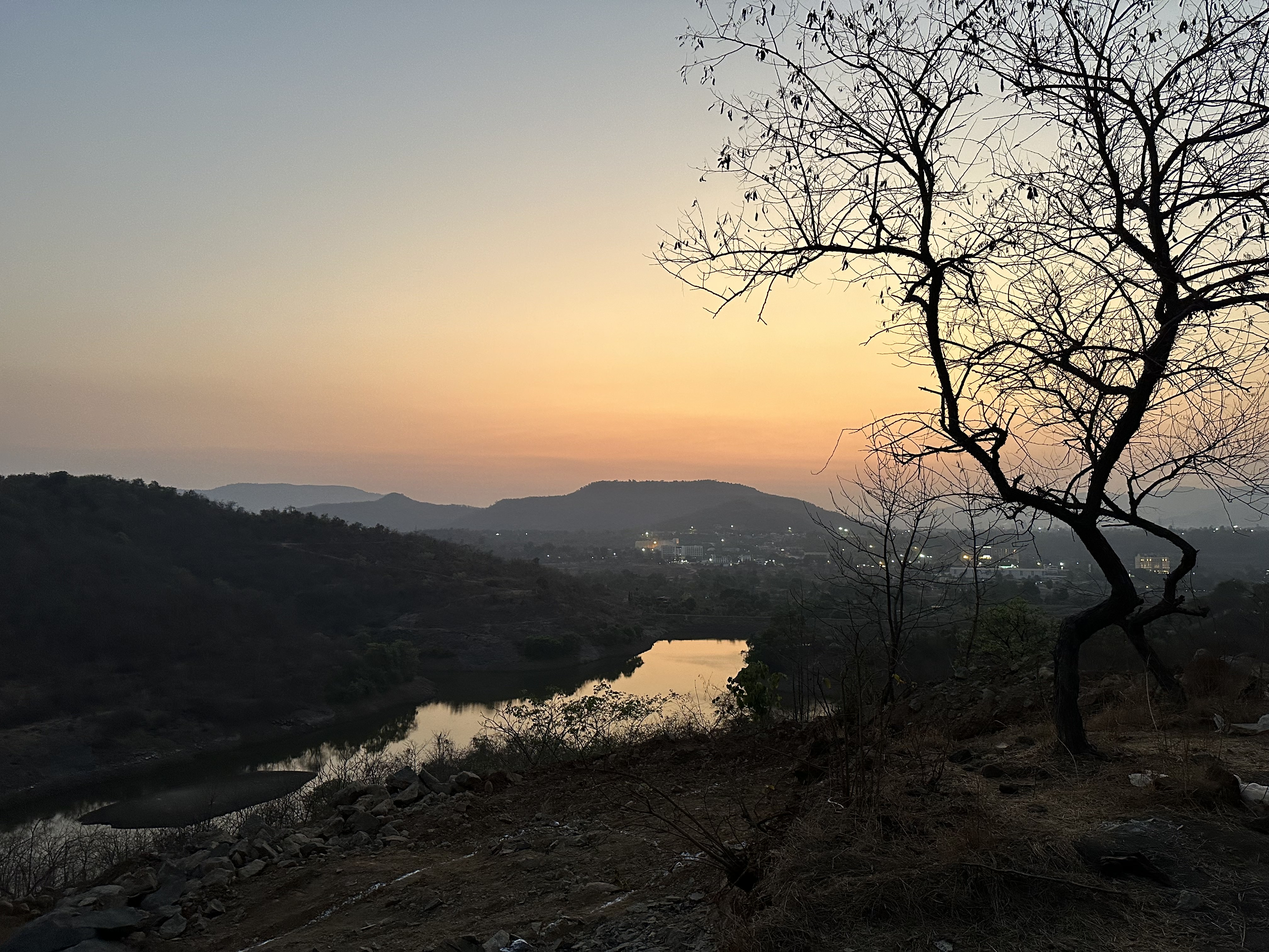
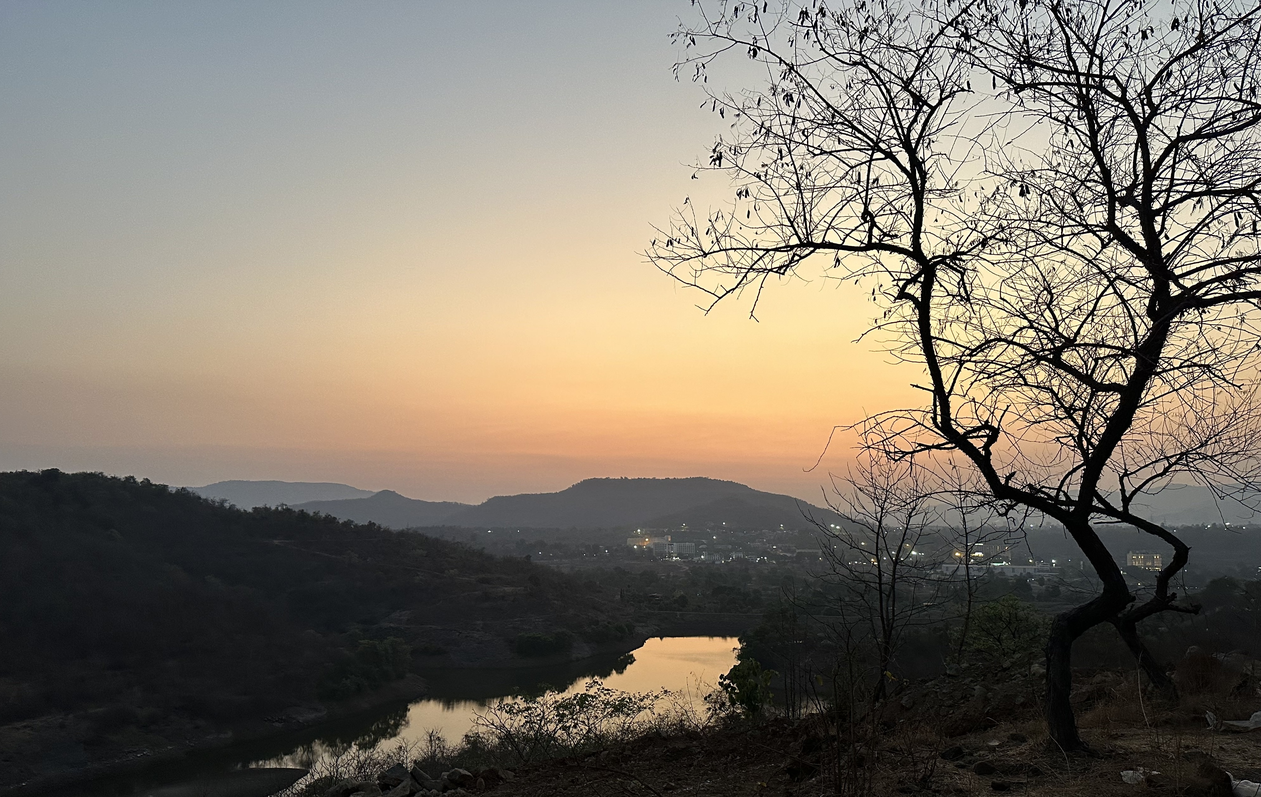
Complete web page
The web page is completed using html and css only.

Some improvements could be made to section 2
(images from the gallery) as they don't scale
together which would make it nicer.

Next step would be to add more web pages for
different regions of the site and hence make all
links interactive.

diff --git a/index.html b/index.html
@@ -3,61 +3,65 @@
 <head>
     <meta charset="UTF-8">
     <meta name="viewport" content="width=device-width, initial-scale=1.0">
-    <title>Webpage Template</title>
+    <title>Travel Site</title>
     <link rel="stylesheet" href="./styles.css">
 </head>
 <body>
     <div class="header">
-        <div class="left-header">Header Logo</div>
+        <div class="left-header">Generic Travel Corp</div>
         <div class="right-header">
-            <div class="link-1">header link 1</div>
-            <div class="link-2">header link 2</div>
-            <div class="link-2">header link 3</div>
+            <div class="link-1">Popular destinations</div>
+            <div class="link-2">Customer Reviews</div>
+            <div class="link-2">Gallery</div>
         </div>
     </div>
 
     <div class="body">
         <div class="section-1">
             <div class="s1-left">
-                <h2>Travelling can be hard and meticulous, which is why we're here! </h2>
+                <h2>Travelling can be hard, which is why we're here! </h2>
                 <p>We provide custom travel advise for wherever you want to venture, whether it be energetic hub that is Manhatten or the quiet but relaxed Maldives. We really do cover it all!</p>
                 <button>Sign Up</button>
             </div>
             <div class="s1-right">
-                <img height="300px" width="300px" src="./img/IMG_9340.jpg" alt="evening scenery">
+                <img src="./img/IMG_9340.jpg" alt="evening scenery">
             </div>
         </div>
         <div class="section-2">
-            <h3>Some random information.</h3>
+            <h3>Some images from our <a>Gallery</a>.</h3>
             <div class="s2-all-boxes">
                 <div class="s2-container">
-                    <div class="s2-box"></div>
-                    <p>this is some subtext under an illusration or image</p>
+                    <img class="s2-img" src="./img/big-ben.jpg" alt ="Big Ben, London" >
+                    <p class="s2-text">Big Ben in London</p>
                 </div>
                 <div class="s2-container">
-                    <div class="s2-box"></div>
-                    <p>this is some subtext under an illusration or image</p>
+                    <img class="s2-img" src="./img/eiffel-tower.jpg" alt ="Eiffel Tower, Paris" >
+                    <p class="s2-text">The Eiffel Tower in Paris</p>
                 </div>
                 <div class="s2-container">
-                    <div class="s2-box"></div>
-                    <p>this is some subtext under an illusration or image</p>
+                    <img class="s2-img" src="./img/golden-temple.jpg" alt ="The Golden Temple, Amritsar" >
+                    <p class="s2-text">The Golden Temple in Amritsar</p>
                 </div>
                 <div class="s2-container">
-                    <div class="s2-box"></div>
-                    <p>this is some subtext under an illusration or image</p>
-                </div>
+                    <img class="s2-img" src="./img/sad-monke.jpg" alt ="Sad Monkey" >
+                    <p class="s2-text">A sad monkey who decided to not travel</p>
+                </div> 
             </div>
 
         </div>
         <div class="section-3">
             <p class="quote">Dwell on the beauty of life. Watch the stars, and see yourself running with them.</p>
-            <p class="author"> - Marcus Aurelius</p>
+            <p class="author"><strong>- Marcus Aurelius</strong></p>
 
         </div>
         <div class="section-4">
-            <h4>Now is the time to let us help you</h4>
-            <p>Sign up for our expertise on the button to the right!</p>
-            <button>Sign up</button>
+            <div class="s4-end">
+                <h4>Let us help you</h4>
+                <div class="s4-signup">
+                    <p>Sign up for our expertise using the button to the right!</p>
+                    <button>Sign up</button>
+                </div>
+            </div>
         </div>
     </div>
 

diff --git a/styles.css b/styles.css
@@ -12,9 +12,9 @@
 
 .header {
     display: flex;
-    justify-content: space-around;
+    justify-content: space-between;
     align-items: center;
-    padding:20px;
+    padding:20px 50px 0 50px;
     margin:0;
     border:0;
     flex: 0 1 auto;   
@@ -57,7 +57,116 @@
     border:0;
     flex: 0 1 auto;}
 
+.section-1{
+    box-sizing: border-box;
+    display:flex;
+    background-color:#1F2937;
+    color:white;
+    justify-content: space-between;
+    align-items: flex-start;
+    padding:40px 50px 40px 50px;
+}
 
+
+h2 {font-style: strong;}
+
+
+.section-1 img {
+max-width:400px;
+max-height: 300px;
+margin-left: 40px;}
+
+button {
+    background-color: #3882F6;
+    border-radius: 25px;
+    border:0;
+    padding: 5px 15px;
+    color:white;
+}
+
+
+
+.s2-all-boxes {
+    display:flex;
+    justify-content: space-between;
+    padding:20px 50px 40px 50px;
+    gap:40px;
+    align-items: flex-start;
+    
+}
+
+.s2-container {
+    min-height: auto;
+    min-width: auto;
+    max-width: 300px;
+    max-height: 300px;
+    display: flex;
+    flex-direction: column;
+    justify-content: flex-start;
+    padding: 0;
+    margin: 0;
+}
+
+.s2-container img {
+    border:#3882F6 3px solid;
+    border-radius: 10px;
+    padding:5px;
+    min-height: auto;
+    min-width: auto;
+    max-width: 150px;
+    max-height: 150px;
+}
+
+.section-2 h3 {text-align: center;
+margin-top:40px;}
+
+.s2-container img {
+    width: 100%;
+    height: auto;
+    object-fit: cover;
+}
+
+.section-3 {
+    background-color: #E5E7EB;
+    padding:40px 50px 40px 50px;
+}
+
+.section-3 .quote {
+    font-size: 26px ;
+    font-family: "light italic" , sans-serif;
+    color: #1F2937;
+}
+
+.section-3 .author {
+    text-align: right;
+}
+
+.section-4 {
+    color:white;
+    padding:40px 50px 40px 50px;
+}
+
+.section-4  button {
+    border:white 1px solid;
+    display:inline-block;}
+
+.section-4 .s4-end {
+    background-color: #3882F6;
+    padding:10px 30px;
+    box-sizing: border-box;
+    border-radius:25px;
+}
+
+.s4-signup {
+    display:flex;
+    justify-content: space-between;
+    align-items: center;
+}
+
+.section-4 h4 {font-size: 20px;
+    margin-bottom:0;
+    padding-bottom: 0;
+}
 
 
 

diff --git a/README.md b/README.md
@@ -1,2 +1,4 @@
 # webpage-template
-Basic webpage made as part of the odin project. 
+Basic webpage for a travel firm, made as part of the odin project.
+
+All images used were previously taken myself.
